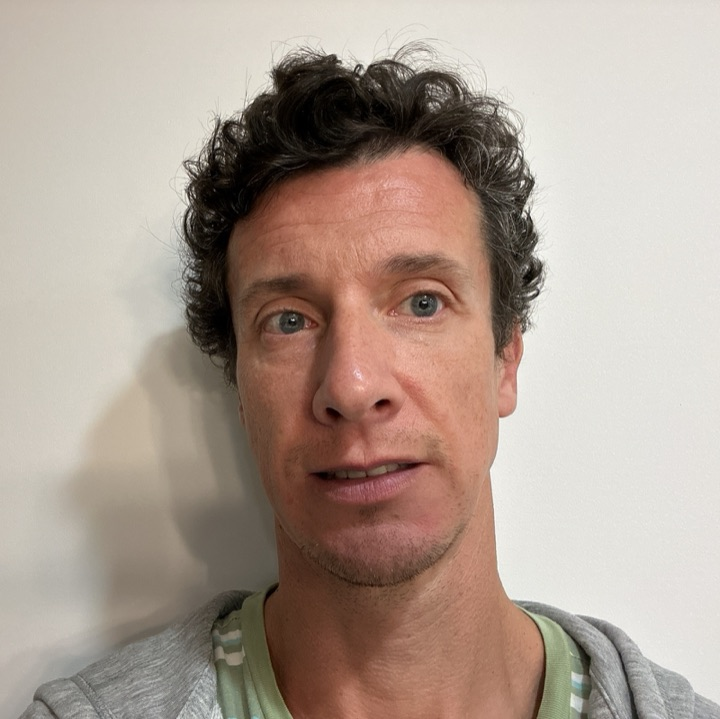
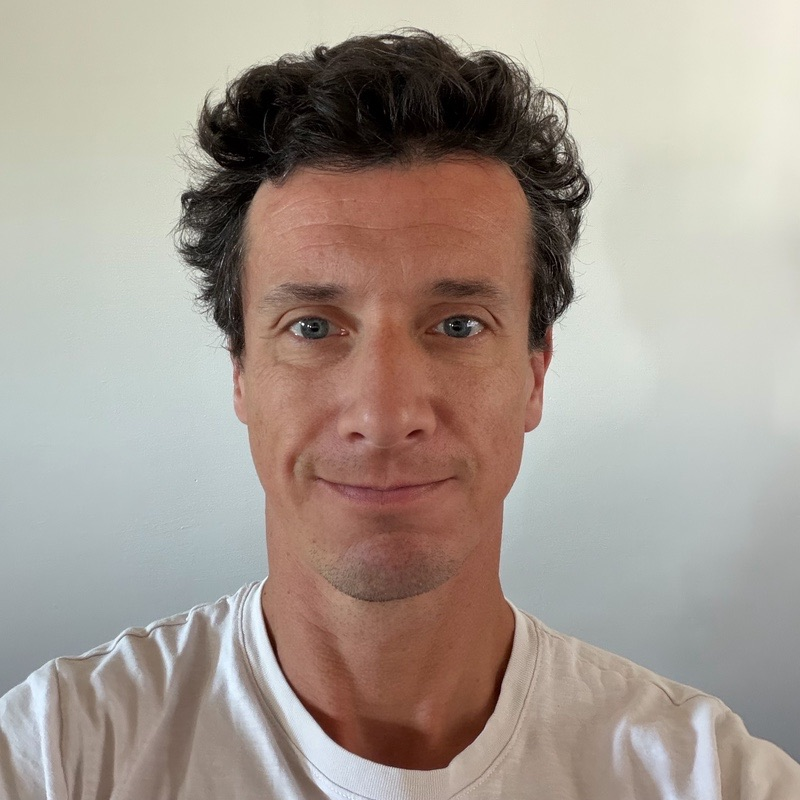
feat(about): replace the portrait photo

diff --git a/about/index.html b/about/index.html
@@ -42,7 +42,7 @@
         </h1>
 
         <div class="rise mt-12 grid gap-10 sm:mt-16 sm:grid-cols-[13rem_1fr] sm:gap-12" style="animation-delay:0.12s">
-          <img src="/images/edouard.jpg" alt="Edouard Bri&egrave;re" width="720" height="719"
+          <img src="/images/edouard.jpg" alt="Edouard Bri&egrave;re" width="800" height="800"
                class="w-40 rounded-lg border border-rule dark:border-rule-dark sm:w-full">
 
           <div class="max-w-[34rem] space-y-5 text-lg leading-relaxed text-slate dark:text-slate-dark">

diff --git a/build.py b/build.py
@@ -179,7 +179,7 @@ ABOUT_MAIN = """
         </h1>
 
         <div class="rise mt-12 grid gap-10 sm:mt-16 sm:grid-cols-[13rem_1fr] sm:gap-12" style="animation-delay:0.12s">
-          <img src="/images/edouard.jpg" alt="Edouard Bri&egrave;re" width="720" height="719"
+          <img src="/images/edouard.jpg" alt="Edouard Bri&egrave;re" width="800" height="800"
                class="w-40 rounded-lg border border-rule dark:border-rule-dark sm:w-full">
 
           <div class="max-w-[34rem] space-y-5 text-lg leading-relaxed text-slate dark:text-slate-dark">
